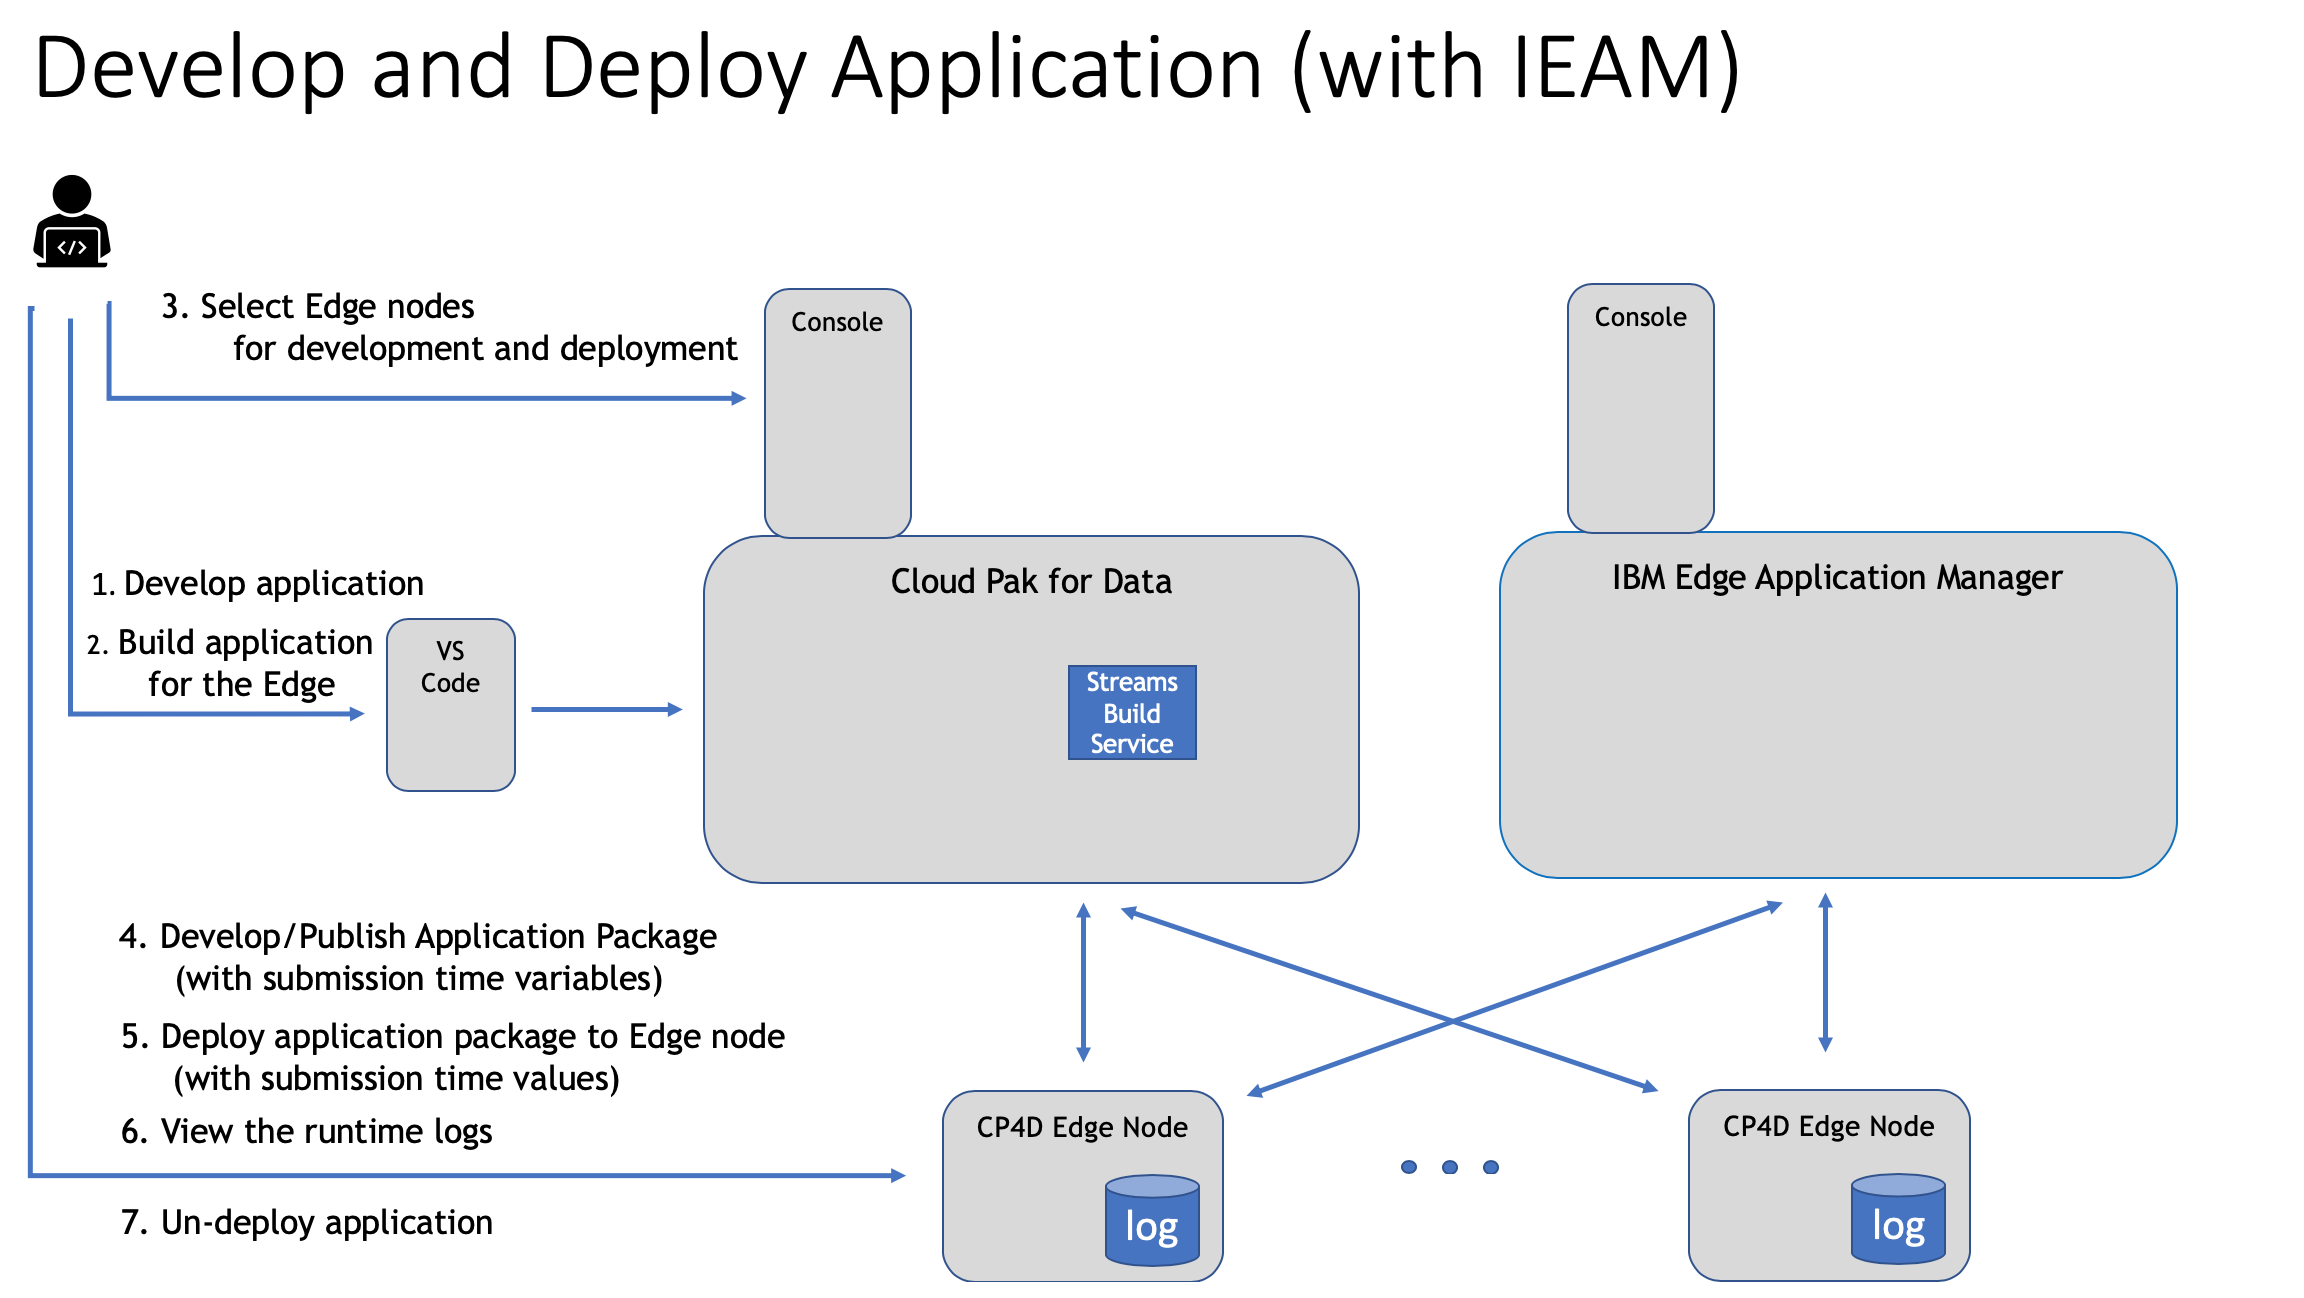
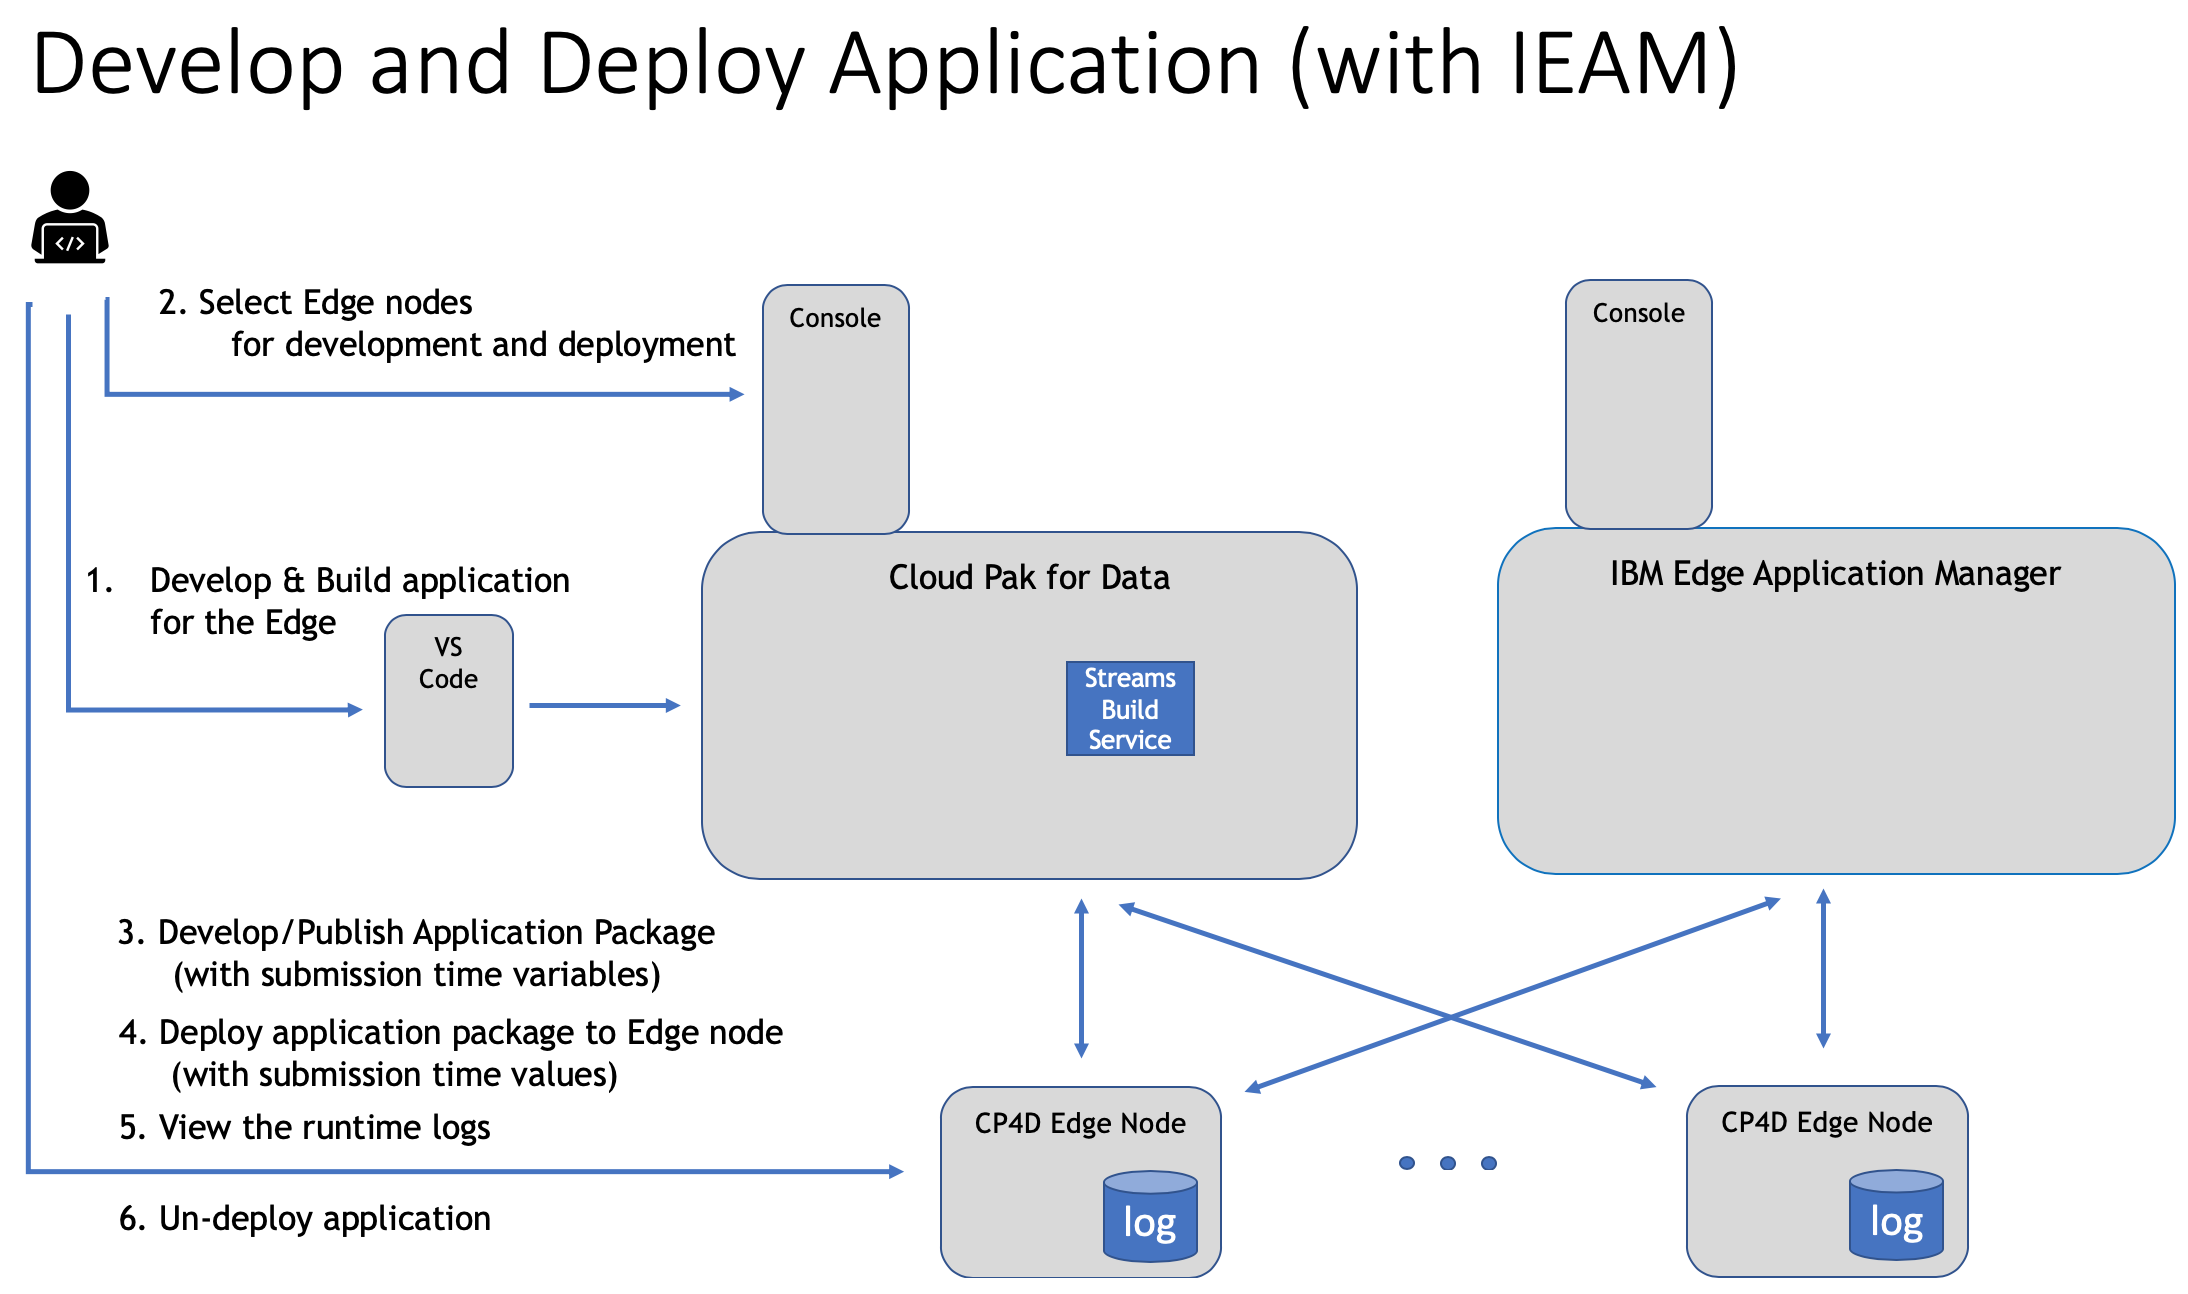
readme

diff --git a/README.md b/README.md
@@ -2,6 +2,8 @@
 
 # sample.edge-app-control
 
+The application used in this sample is a simple SPL application that reads stock ticker entries from a file, does a simple calculation on them, and then writes them out to a file. It will continue doing this in a loop.
+
 The objective of this sample is to illustrate the steps involved with developing an Streams Programming Language (SPL) application for the Edge.  It will start with the application SPL source code, proceed to the application build process, followed by deployment (including configuration) to the edge nodes, and finish with examining the runtime output.  
 
 There are two ways of managing the edge application deployment lifecycles.
@@ -72,78 +74,71 @@ The SPL sample application has two submission time variables defined in it.  It 
 
 ## Steps 
 
-This sample will show how to develop and deploy an Edge application in an CPD environment without using an EAM instance, and how to develop and deploy an Edge application in an CPD environment when using an EAM instance.  The high level steps are the same for both of these scenarios.  
-1. Develop Application
-1. Build Application for the Edge
+This sample will show how to develop and deploy an Edge application in an CPD environment without using an EAM instance, and how to develop and deploy an Edge application in an CPD environment when using an EAM instance.  Here are the high level steps for developing and deploying the Edge application.   
+1. Develop and Build Application for the Edge
 1. Select Edge nodes to use
 1. Develop/Publish Application
 1. Deploy Application to Edge nodes
 1. View log
 1. Undeploy Application
 
-While the steps are the same for both scenarios, the detailed steps have some differences in them.  These detailed flows will be described separately.  
+While the high level flow is the same for both scenarios, the detailed steps have some differences in them and will be described separately in the following two scenarios.
 
 ### Scenario#1 - Develop and deploy application without IBM Edge Application Manager
 
 ![non-EAM Deploy](./images/DeployAppPkg-withoutEAM.png)
 
-#### 1. Develop application (via VS Code)
+#### 1. Develop and Build application for the Edge (via VS Code)
 
-The application used in this sample is a simple SPL application that reads stock ticker entries from a file, does a simple calculation on them, and then writes them out to a file. It will continue doing this in a loop.
+1. Work with application by opening up the VS Code editor on the TradesAppCloud_withLogTrace.spl SPL source code
 
-Some additional trace and println statements have been added to the application to show examples of how to define and reference submission time variables, and how to add application trace statements to output these values into the application log.
+    Some additional trace and println statements have been added to the application to show examples of how to define and reference submission time variables, and how to add application trace statements to output these values into the application log.
     
-Search for "LOOK HERE" to see the section of the application that is most relative to this sample.
+    Search for "LOOK HERE" to see the section of the application that is most relative to this sample.
     
-Notice the names for the two submission time variable names as they will be needed later on. 
-- _mySubmissionTimeVariable_string_
-- _mySubmissionTimeVariable_listOfStrings_
+    Notice the names for the two submission time variable names as they will be needed later on. 
+    - _mySubmissionTimeVariable_string_
+    - _mySubmissionTimeVariable_listOfStrings_
         
-```        
-{ 
-    // LOOK HERE
+        ```        
+    { 
+        // LOOK HERE
 
-    // define submission time variables; 1 of each supported type (string, list of strings)
-    rstring mySubmissionTimeVariable_string = getSubmissionTimeValue("mySubmissionTimeVariable_string","defaultValue");
-    list<rstring> mySubmissionTimeVariable_listOfStrings = getSubmissionTimeListValue("mySubmissionTimeVariable_listOfStrings","defaultFirstListElement", "defaultSecondListElement"]);
+        // define submission time variables; 1 of each supported type (string, list of strings)
+        rstring mySubmissionTimeVariable_string = getSubmissionTimeValue("mySubmissionTimeVariable_string","defaultValue");
+        list<rstring> mySubmissionTimeVariable_listOfStrings = getSubmissionTimeListValue("mySubmissionTimeVariable_listOfStrings","defaultFirstListElement", "defaultSecondListElement"]);
 						
-    // add trace statements that will display the submission time values that were inputted
-    appTrc(spl::Trace.info, "mySubmissionTimeVariable_string =" + mySubmissionTimeVariable_string);
-    appTrc(spl::Trace.info, "mySubmissionTimeVariable_listOfStrings var: ");
-    for (rstring parm in mySubmissionTimeVariable_listOfStrings) {
-        appTrc(spl::Trace.info, "   String element: "+parm);
-    }
+        // add trace statements that will display the submission time values that were inputted
+        appTrc(spl::Trace.info, "mySubmissionTimeVariable_string =" + mySubmissionTimeVariable_string);
+        appTrc(spl::Trace.info, "mySubmissionTimeVariable_listOfStrings var: ");
+        for (rstring parm in mySubmissionTimeVariable_listOfStrings) {
+            appTrc(spl::Trace.info, "   String element: "+parm);
+        }
                         
-    // notice the following trace statement is 'debug' level, 
-    //    & will only show in log when trace level is 'debug' or 'trace'
-    appTrc(spl::Trace.debug, "*** DEBUG-LEVEL of trace message ***");
+        // notice the following trace statement is 'debug' level, 
+        //    & will only show in log when trace level is 'debug' or 'trace'
+        appTrc(spl::Trace.debug, "*** DEBUG-LEVEL of trace message ***");
 
-    // add some print lines - modify "yourName" below if you would like to customize the output.
-    printStringLn("Average asking price for " + ticker + "  is " + (rstring) average);
-    printStringLn("This sample is being is being tried out by: USER-NAME= " + "yourName");
+        // add some print lines - modify "yourName" below if you would like to customize the output.
+        printStringLn("Average asking price for " + ticker + "  is " + (rstring) average);
+        printStringLn("This sample is being is being tried out by: USER-NAME= " + "yourName");
 
-    // submit the tuple
-    submit(AvgPrice, PrintAvPrice);						
-} 
-```        
-Change the "yourName" string to something of your choosing.  This will allow you to see how it gets printed to the log. 
+        // submit the tuple
+        submit(AvgPrice, PrintAvPrice);						
+    } 
+    ```        
+    Change the "yourName" string to something of your choosing.  This will allow you to see how it gets printed to the log. 
     
-#### 2. Build application for the Edge (via VS Code)
-Use the VSCode tool to compile the SPL application code, and ultimately build into a Docker image.
-1. Right click in the TradesAppCloud_withLogTrace application, and select "Build"
-    - Monitor the console output until the "Successfully build the application" message is displayed
-1. Right click in the TradesAppCloud_withLogTrace application, and select "Build Edge Application Image"
-    - When prompted, select the base image that contains "streams-edge-base-application", and enter "tradesappcloud-withlogtrace" for image name, and "1.0" for image tag
-    - Invoke "Build image"
-    - Monitor the console output until "Successfully built the edge application image", and take note of the imagePrefix from the Image Details.
+1. Build the application image for the Edge
+    1. Right click in the TradesAppCloud_withLogTrace application editing window, and select "Build"
+        - Monitor the console output until the "Successfully build the application" message is displayed
+    1. Right click in the TradesAppCloud_withLogTrace application editing window, and select "Build Edge Application Image"
+        - When prompted, select the base image that contains "streams-edge-base-application", and enter "tradesappcloud-withlogtrace" for image name, and "1.0" for image tag
+        - Click "Build image"
+        - Monitor the console output until "Successfully built the edge application image", and take note of the imagePrefix from the Image Details.
         
-#### 3. Select Edge Node(s) for development and deployment (via CP4D Console)
-To see list of Edge nodes that have been tethered to this CPD instance, do these steps:
-1. login in to CPD Console
-1. Select Navigation Menu > Analyze > Edge Analytics > Remote systems
-    This will display a list of the available nodes. Select one of the _analytics-micro-edge-system_ type nodes.
 
-#### 4. Develop / Publish application package 
+#### 2. Develop / Publish application package 
     
 - From CP4D Console, perform these steps. For more information, see "Packaging using Cloud Pak for Data" topic. 
     1. Select CPD Console > Navigation Menu > Analyze > Edge Analytics > Analytics apps
@@ -222,7 +217,7 @@ To see list of Edge nodes that have been tethered to this CPD instance, do these
     This will display a list of the available nodes.  Select one of the _ieam-analytics-micro-edge-system_ type nodes for the development system.  Also, select one of these for the deployment system.  It can be the same system.
 
 #### 4. Develop / Publish application package 
-- ssh to CP4D Edge node chosen for development and perform the following steps.  For more information, see the "Packaging an edge application service for deployment by using Edge Application Manager" topic.  The submission time variables from the application discovered in step #1 above will be included in the resulting application package. The values for the variables are not specifed as part of the application package.
+ssh to CP4D Edge node chosen for development and perform the following steps.  For more information, see the "Packaging an edge application service for deployment by using Edge Application Manager" topic.  The submission time variables from the application discovered in step #1 above will be included in the resulting application package. The values for the variables are not specifed as part of the application package.
     1. Install the OpenShift® command-line interface. See xxxx.
     1. Setup the environment variables
         - eval export $(cat agent-install.cfg)
@@ -286,7 +281,7 @@ To see list of Edge nodes that have been tethered to this CPD instance, do these
             
 
 #### 5. Deploy application package to an Edge node 
-- ssh to CP4D Edge node chosen for deployment and perform the following steps.  For more information, see the "Deploying using Edge Application Manager" topic.  The values for the submission time variables from the application will be specified during deployment.
+ssh to CP4D Edge node chosen for deployment and perform the following steps.  For more information, see the "Deploying using Edge Application Manager" topic.  The values for the submission time variables from the application will be specified during deployment.
     1. vi userinput.json and add the following json to it.
         
         ```
@@ -306,7 +301,6 @@ To see list of Edge nodes that have been tethered to this CPD instance, do these
         ```
 
 #### 6. View the runtime logs (ssh to CP4D Edge node chosen for deployment)
-- same as Scenario#1
 
 
 The system log file contains several messages from many different sources.  To filter off what you are interested requires using grep'g techniques.
@@ -322,7 +316,9 @@ The system log file contains several messages from many different sources.  To f
 
 ## Additional Resources
 
-When the same name is used for a submission time variable in different parts of the application, the variable names must be prepended by the application namespace and composite operator name.  To determine what this fully qualified name looks like, you may retrieve the names of the supported variables by following the "Retrieving service variables for edge applications" topic. 
+***Submission Time Variable Name Collisions:*** 
+
+When the same name is used for a submission time variable in different namespaces or composites of the application, the variable names must be prepended by the application namespace and composite operator name.  To determine what this fully qualified name looks like, you may retrieve the names of the supported variables by following the "Retrieving service variables for edge applications" topic. 
 
 This is also useful to discover the supported variables for an image that the source code is not readily available for.
 
